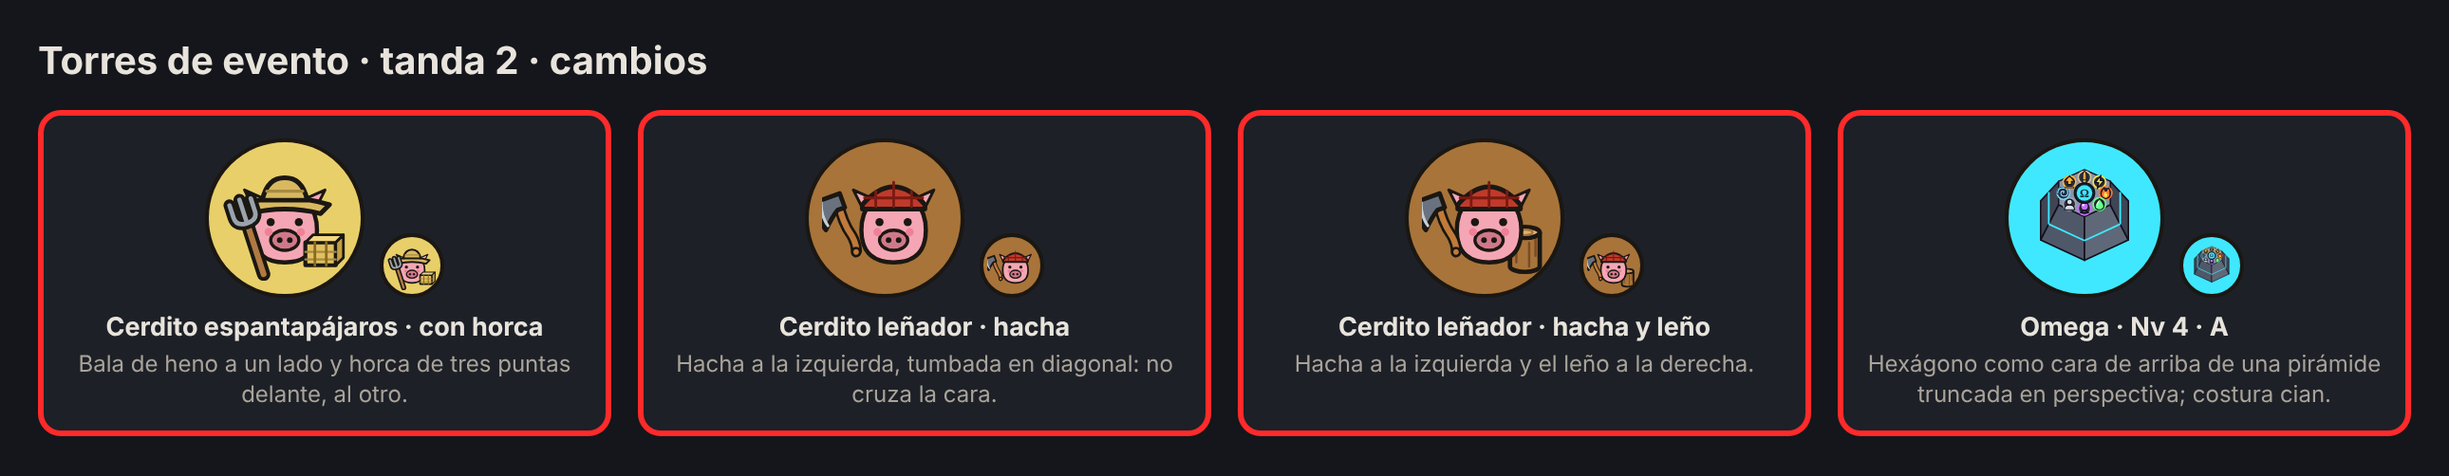
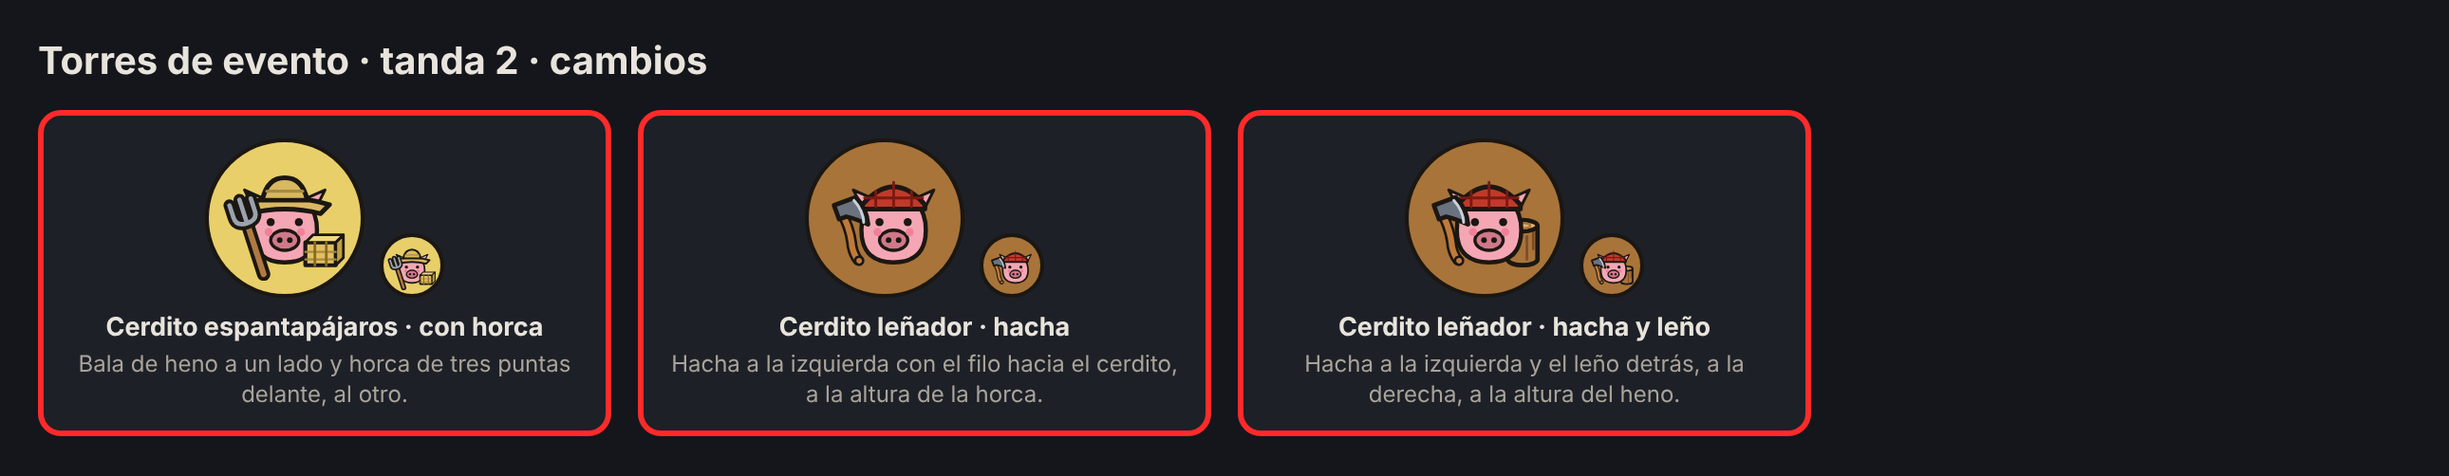
Maquetas: leñador con el filo hacia el cerdito y leño detrás
Claude-Session: https://claude.ai/code/session_01KTvhdvJBVdNEHfAwzaEr54

diff --git a/maquetas/torres_evento_tanda2_cambios4.html b/maquetas/torres_evento_tanda2_cambios4.html
@@ -1,4 +1,4 @@
 <!doctype html><meta charset="utf-8"><style>html,body{height:auto}body{margin:0;background:#14161b;color:#e8e4dc;font:14px system-ui,sans-serif;padding:20px;width:1250px}h1{font-size:20px;margin:0 0 14px}
 .grid{display:grid;grid-template-columns:repeat(4,1fr);gap:14px}.c{border:3px solid #ff2a2a;border-radius:12px;background:#1d2027;padding:12px;display:flex;flex-direction:column;align-items:center;text-align:center}
 .pair{display:flex;align-items:flex-end;gap:8px}.ci{border-radius:50%;display:grid;place-items:center;border:2px solid #1b1712;box-sizing:border-box;overflow:hidden}
-.c b{margin-top:8px;font-size:13.5px}.c small{color:#a9a399;font-size:12px;margin-top:3px;line-height:1.3}</style><h1>Torres de evento · tanda 2 · cambios</h1><div class="grid"><div class="c"><div class="pair"><div class="ci" style="width:84px;height:84px;background:#e8cf6a"><svg width="66" height="66" viewBox="-4 -4 56 56"><g transform="translate(2.3999999999999986 6) scale(0.9)"><g transform="translate(0 0)"><path d="M8 14l-4-8 9 4zM40 14l4-8-9 4z" fill="#f4a6b4" stroke="#1b1712" stroke-width="1.4" stroke-linejoin="round" stroke-linecap="round"/><path d="M8 26c0-12 7-18 16-18s16 6 16 18-7 16-16 16S8 38 8 26z" fill="#f4a6b4" stroke="#1b1712" stroke-width="2.1" stroke-linejoin="round" stroke-linecap="round"/><ellipse cx="24" cy="31" rx="7" ry="5" fill="#d0788a" stroke="#1b1712" stroke-width="1.6"/><circle cx="21.5" cy="31" r="1.4" fill="#1b1712" stroke="#1b1712" stroke-width="0"/><circle cx="26.5" cy="31" r="1.4" fill="#1b1712" stroke="#1b1712" stroke-width="0"/><circle cx="17" cy="22" r="2" fill="#1b1712" stroke="#1b1712" stroke-width="0"/><circle cx="31" cy="22" r="2" fill="#1b1712" stroke="#1b1712" stroke-width="0"/><circle cx="16" cy="27" r="2" fill="#f08098" stroke="#1b1712" stroke-width="0"/><circle cx="32" cy="27" r="2" fill="#f08098" stroke="#1b1712" stroke-width="0"/></g></g><path d="M4 18q20-6 40 0l-4 4q-16-4-32 0z" fill="#d8b860" stroke="#1b1712" stroke-width="2.1" stroke-linejoin="round" stroke-linecap="round"/><path d="M14 16q2-10 10-10t10 10z" fill="#d8b860" stroke="#1b1712" stroke-width="2.1" stroke-linejoin="round" stroke-linecap="round"/><path d="M16 12h16" fill="none" stroke="#a88a40" stroke-width="1.4" stroke-linecap="round"/><g transform="translate(40 40) scale(0.85)"><path d="M-8 -6h16v12h-16z" fill="#e0c060" stroke="#1b1712" stroke-width="2.1" stroke-linejoin="round" stroke-linecap="round"/><path d="M-8 -6l4-4h16l-4 4z" fill="#f0d880" stroke="#1b1712" stroke-width="1.4" stroke-linejoin="round" stroke-linecap="round"/><path d="M8 6v-12l4-4v12z" fill="#c0a040" stroke="#1b1712" stroke-width="1.4" stroke-linejoin="round" stroke-linecap="round"/><path d="M-8 -1h16M-8 3h16" fill="none" stroke="#a88a40" stroke-width="1.1" stroke-linecap="round"/><path d="M-3 -6v12M3 -6v12" fill="none" stroke="#8a6a20" stroke-width="1.4" stroke-linecap="round"/></g><g transform="translate(9 32) rotate(-18) scale(1)"><path d="M0 18V-6" fill="none" stroke="#1b1712" stroke-width="5.960000000000001" stroke-linecap="round" stroke-linejoin="round"/><path d="M0 18V-6" fill="none" stroke="#b07a42" stroke-width="2.6" stroke-linecap="round" stroke-linejoin="round"/><path d="M-5 -16v6q0 4 5 4t5-4v-6M0 -6v-11" fill="none" stroke="#1b1712" stroke-width="5.36" stroke-linecap="round" stroke-linejoin="round"/><path d="M-5 -16v6q0 4 5 4t5-4v-6M0 -6v-11" fill="none" stroke="#9aa3ad" stroke-width="2" stroke-linecap="round" stroke-linejoin="round"/></g></svg></div><div class="ci" style="width:34px;height:34px;background:#e8cf6a"><svg width="26" height="26" viewBox="-4 -4 56 56"><g transform="translate(2.3999999999999986 6) scale(0.9)"><g transform="translate(0 0)"><path d="M8 14l-4-8 9 4zM40 14l4-8-9 4z" fill="#f4a6b4" stroke="#1b1712" stroke-width="1.4" stroke-linejoin="round" stroke-linecap="round"/><path d="M8 26c0-12 7-18 16-18s16 6 16 18-7 16-16 16S8 38 8 26z" fill="#f4a6b4" stroke="#1b1712" stroke-width="2.1" stroke-linejoin="round" stroke-linecap="round"/><ellipse cx="24" cy="31" rx="7" ry="5" fill="#d0788a" stroke="#1b1712" stroke-width="1.6"/><circle cx="21.5" cy="31" r="1.4" fill="#1b1712" stroke="#1b1712" stroke-width="0"/><circle cx="26.5" cy="31" r="1.4" fill="#1b1712" stroke="#1b1712" stroke-width="0"/><circle cx="17" cy="22" r="2" fill="#1b1712" stroke="#1b1712" stroke-width="0"/><circle cx="31" cy="22" r="2" fill="#1b1712" stroke="#1b1712" stroke-width="0"/><circle cx="16" cy="27" r="2" fill="#f08098" stroke="#1b1712" stroke-width="0"/><circle cx="32" cy="27" r="2" fill="#f08098" stroke="#1b1712" stroke-width="0"/></g></g><path d="M4 18q20-6 40 0l-4 4q-16-4-32 0z" fill="#d8b860" stroke="#1b1712" stroke-width="2.1" stroke-linejoin="round" stroke-linecap="round"/><path d="M14 16q2-10 10-10t10 10z" fill="#d8b860" stroke="#1b1712" stroke-width="2.1" stroke-linejoin="round" stroke-linecap="round"/><path d="M16 12h16" fill="none" stroke="#a88a40" stroke-width="1.4" stroke-linecap="round"/><g transform="translate(40 40) scale(0.85)"><path d="M-8 -6h16v12h-16z" fill="#e0c060" stroke="#1b1712" stroke-width="2.1" stroke-linejoin="round" stroke-linecap="round"/><path d="M-8 -6l4-4h16l-4 4z" fill="#f0d880" stroke="#1b1712" stroke-width="1.4" stroke-linejoin="round" stroke-linecap="round"/><path d="M8 6v-12l4-4v12z" fill="#c0a040" stroke="#1b1712" stroke-width="1.4" stroke-linejoin="round" stroke-linecap="round"/><path d="M-8 -1h16M-8 3h16" fill="none" stroke="#a88a40" stroke-width="1.1" stroke-linecap="round"/><path d="M-3 -6v12M3 -6v12" fill="none" stroke="#8a6a20" stroke-width="1.4" stroke-linecap="round"/></g><g transform="translate(9 32) rotate(-18) scale(1)"><path d="M0 18V-6" fill="none" stroke="#1b1712" stroke-width="5.960000000000001" stroke-linecap="round" stroke-linejoin="round"/><path d="M0 18V-6" fill="none" stroke="#b07a42" stroke-width="2.6" stroke-linecap="round" stroke-linejoin="round"/><path d="M-5 -16v6q0 4 5 4t5-4v-6M0 -6v-11" fill="none" stroke="#1b1712" stroke-width="5.36" stroke-linecap="round" stroke-linejoin="round"/><path d="M-5 -16v6q0 4 5 4t5-4v-6M0 -6v-11" fill="none" stroke="#9aa3ad" stroke-width="2" stroke-linecap="round" stroke-linejoin="round"/></g></svg></div></div><b>Cerdito espantapájaros · con horca</b><small>Bala de heno a un lado y horca de tres puntas delante, al otro.</small></div><div class="c"><div class="pair"><div class="ci" style="width:84px;height:84px;background:#a8743a"><svg width="66" height="66" viewBox="-4 -4 56 56"><g transform="translate(4 0)"><g transform="translate(2.3999999999999986 6) scale(0.9)"><g transform="translate(0 0)"><path d="M8 14l-4-8 9 4zM40 14l4-8-9 4z" fill="#f4a6b4" stroke="#1b1712" stroke-width="1.4" stroke-linejoin="round" stroke-linecap="round"/><path d="M8 26c0-12 7-18 16-18s16 6 16 18-7 16-16 16S8 38 8 26z" fill="#f4a6b4" stroke="#1b1712" stroke-width="2.1" stroke-linejoin="round" stroke-linecap="round"/><ellipse cx="24" cy="31" rx="7" ry="5" fill="#d0788a" stroke="#1b1712" stroke-width="1.6"/><circle cx="21.5" cy="31" r="1.4" fill="#1b1712" stroke="#1b1712" stroke-width="0"/><circle cx="26.5" cy="31" r="1.4" fill="#1b1712" stroke="#1b1712" stroke-width="0"/><circle cx="17" cy="22" r="2" fill="#1b1712" stroke="#1b1712" stroke-width="0"/><circle cx="31" cy="22" r="2" fill="#1b1712" stroke="#1b1712" stroke-width="0"/><circle cx="16" cy="27" r="2" fill="#f08098" stroke="#1b1712" stroke-width="0"/><circle cx="32" cy="27" r="2" fill="#f08098" stroke="#1b1712" stroke-width="0"/></g></g><path d="M10 18q14-16 28 0v2H10z" fill="#c03a2a" stroke="#1b1712" stroke-width="2.1" stroke-linejoin="round" stroke-linecap="round"/><path d="M16 12v7M24 8v11M32 12v7M11 15h26" fill="none" stroke="#7a1a12" stroke-width="1.2" stroke-linecap="round"/></g><g transform="translate(7 27) rotate(-20) scale(-1 1)"><g transform="translate(0 0) rotate(0) scale(0.95)"><path d="M0 -12q1.6 10 -.6 18q-.6 4 .4 7" fill="none" stroke="#1b1712" stroke-width="5.2" stroke-linecap="round"/><path d="M0 -12q1.6 10 -.6 18q-.6 4 .4 7" fill="none" stroke="#c07a3a" stroke-width="2.8" stroke-linecap="round"/><circle cx="0.2" cy="13.6" r="1.9" fill="#c07a3a" stroke="#1b1712" stroke-width="1.2"/><path d="M-2 -15H9Q12 -8 10 -1Q5 -6 1.6 -8H-2z" fill="#6a7280" stroke="#1b1712" stroke-width="2.1" stroke-linejoin="round" stroke-linecap="round"/><path d="M7.6 -14Q10 -8 8.4 -2.6" fill="none" stroke="#c8d0d8" stroke-width="1.3" stroke-linecap="round"/></g></g></svg></div><div class="ci" style="width:34px;height:34px;background:#a8743a"><svg width="26" height="26" viewBox="-4 -4 56 56"><g transform="translate(4 0)"><g transform="translate(2.3999999999999986 6) scale(0.9)"><g transform="translate(0 0)"><path d="M8 14l-4-8 9 4zM40 14l4-8-9 4z" fill="#f4a6b4" stroke="#1b1712" stroke-width="1.4" stroke-linejoin="round" stroke-linecap="round"/><path d="M8 26c0-12 7-18 16-18s16 6 16 18-7 16-16 16S8 38 8 26z" fill="#f4a6b4" stroke="#1b1712" stroke-width="2.1" stroke-linejoin="round" stroke-linecap="round"/><ellipse cx="24" cy="31" rx="7" ry="5" fill="#d0788a" stroke="#1b1712" stroke-width="1.6"/><circle cx="21.5" cy="31" r="1.4" fill="#1b1712" stroke="#1b1712" stroke-width="0"/><circle cx="26.5" cy="31" r="1.4" fill="#1b1712" stroke="#1b1712" stroke-width="0"/><circle cx="17" cy="22" r="2" fill="#1b1712" stroke="#1b1712" stroke-width="0"/><circle cx="31" cy="22" r="2" fill="#1b1712" stroke="#1b1712" stroke-width="0"/><circle cx="16" cy="27" r="2" fill="#f08098" stroke="#1b1712" stroke-width="0"/><circle cx="32" cy="27" r="2" fill="#f08098" stroke="#1b1712" stroke-width="0"/></g></g><path d="M10 18q14-16 28 0v2H10z" fill="#c03a2a" stroke="#1b1712" stroke-width="2.1" stroke-linejoin="round" stroke-linecap="round"/><path d="M16 12v7M24 8v11M32 12v7M11 15h26" fill="none" stroke="#7a1a12" stroke-width="1.2" stroke-linecap="round"/></g><g transform="translate(7 27) rotate(-20) scale(-1 1)"><g transform="translate(0 0) rotate(0) scale(0.95)"><path d="M0 -12q1.6 10 -.6 18q-.6 4 .4 7" fill="none" stroke="#1b1712" stroke-width="5.2" stroke-linecap="round"/><path d="M0 -12q1.6 10 -.6 18q-.6 4 .4 7" fill="none" stroke="#c07a3a" stroke-width="2.8" stroke-linecap="round"/><circle cx="0.2" cy="13.6" r="1.9" fill="#c07a3a" stroke="#1b1712" stroke-width="1.2"/><path d="M-2 -15H9Q12 -8 10 -1Q5 -6 1.6 -8H-2z" fill="#6a7280" stroke="#1b1712" stroke-width="2.1" stroke-linejoin="round" stroke-linecap="round"/><path d="M7.6 -14Q10 -8 8.4 -2.6" fill="none" stroke="#c8d0d8" stroke-width="1.3" stroke-linecap="round"/></g></g></svg></div></div><b>Cerdito leñador · hacha</b><small>Hacha a la izquierda, tumbada en diagonal: no cruza la cara.</small></div><div class="c"><div class="pair"><div class="ci" style="width:84px;height:84px;background:#a8743a"><svg width="66" height="66" viewBox="-4 -4 56 56"><g transform="translate(42 38) scale(0.95)"><path d="M-7 -8V8a7 2.6 0 0014 0V-8" fill="#a8743a" stroke="#1b1712" stroke-width="2.1" stroke-linejoin="round"/><path d="M-4 -4v10M2 -3v11M5 -5v8" fill="none" stroke="#7a4a2a" stroke-width="1.1" stroke-linecap="round"/><ellipse cx="0" cy="-8" rx="7" ry="2.6" fill="#e0b070" stroke="#1b1712" stroke-width="2.1"/><ellipse cx="0" cy="-8" rx="3.6" ry="1.3" fill="none" stroke="#a8743a" stroke-width="1"/></g><g transform="translate(2 0)"><g transform="translate(2.3999999999999986 6) scale(0.9)"><g transform="translate(0 0)"><path d="M8 14l-4-8 9 4zM40 14l4-8-9 4z" fill="#f4a6b4" stroke="#1b1712" stroke-width="1.4" stroke-linejoin="round" stroke-linecap="round"/><path d="M8 26c0-12 7-18 16-18s16 6 16 18-7 16-16 16S8 38 8 26z" fill="#f4a6b4" stroke="#1b1712" stroke-width="2.1" stroke-linejoin="round" stroke-linecap="round"/><ellipse cx="24" cy="31" rx="7" ry="5" fill="#d0788a" stroke="#1b1712" stroke-width="1.6"/><circle cx="21.5" cy="31" r="1.4" fill="#1b1712" stroke="#1b1712" stroke-width="0"/><circle cx="26.5" cy="31" r="1.4" fill="#1b1712" stroke="#1b1712" stroke-width="0"/><circle cx="17" cy="22" r="2" fill="#1b1712" stroke="#1b1712" stroke-width="0"/><circle cx="31" cy="22" r="2" fill="#1b1712" stroke="#1b1712" stroke-width="0"/><circle cx="16" cy="27" r="2" fill="#f08098" stroke="#1b1712" stroke-width="0"/><circle cx="32" cy="27" r="2" fill="#f08098" stroke="#1b1712" stroke-width="0"/></g></g><path d="M10 18q14-16 28 0v2H10z" fill="#c03a2a" stroke="#1b1712" stroke-width="2.1" stroke-linejoin="round" stroke-linecap="round"/><path d="M16 12v7M24 8v11M32 12v7M11 15h26" fill="none" stroke="#7a1a12" stroke-width="1.2" stroke-linecap="round"/></g><g transform="translate(7 27) rotate(-20) scale(-1 1)"><g transform="translate(0 0) rotate(0) scale(0.95)"><path d="M0 -12q1.6 10 -.6 18q-.6 4 .4 7" fill="none" stroke="#1b1712" stroke-width="5.2" stroke-linecap="round"/><path d="M0 -12q1.6 10 -.6 18q-.6 4 .4 7" fill="none" stroke="#c07a3a" stroke-width="2.8" stroke-linecap="round"/><circle cx="0.2" cy="13.6" r="1.9" fill="#c07a3a" stroke="#1b1712" stroke-width="1.2"/><path d="M-2 -15H9Q12 -8 10 -1Q5 -6 1.6 -8H-2z" fill="#6a7280" stroke="#1b1712" stroke-width="2.1" stroke-linejoin="round" stroke-linecap="round"/><path d="M7.6 -14Q10 -8 8.4 -2.6" fill="none" stroke="#c8d0d8" stroke-width="1.3" stroke-linecap="round"/></g></g></svg></div><div class="ci" style="width:34px;height:34px;background:#a8743a"><svg width="26" height="26" viewBox="-4 -4 56 56"><g transform="translate(42 38) scale(0.95)"><path d="M-7 -8V8a7 2.6 0 0014 0V-8" fill="#a8743a" stroke="#1b1712" stroke-width="2.1" stroke-linejoin="round"/><path d="M-4 -4v10M2 -3v11M5 -5v8" fill="none" stroke="#7a4a2a" stroke-width="1.1" stroke-linecap="round"/><ellipse cx="0" cy="-8" rx="7" ry="2.6" fill="#e0b070" stroke="#1b1712" stroke-width="2.1"/><ellipse cx="0" cy="-8" rx="3.6" ry="1.3" fill="none" stroke="#a8743a" stroke-width="1"/></g><g transform="translate(2 0)"><g transform="translate(2.3999999999999986 6) scale(0.9)"><g transform="translate(0 0)"><path d="M8 14l-4-8 9 4zM40 14l4-8-9 4z" fill="#f4a6b4" stroke="#1b1712" stroke-width="1.4" stroke-linejoin="round" stroke-linecap="round"/><path d="M8 26c0-12 7-18 16-18s16 6 16 18-7 16-16 16S8 38 8 26z" fill="#f4a6b4" stroke="#1b1712" stroke-width="2.1" stroke-linejoin="round" stroke-linecap="round"/><ellipse cx="24" cy="31" rx="7" ry="5" fill="#d0788a" stroke="#1b1712" stroke-width="1.6"/><circle cx="21.5" cy="31" r="1.4" fill="#1b1712" stroke="#1b1712" stroke-width="0"/><circle cx="26.5" cy="31" r="1.4" fill="#1b1712" stroke="#1b1712" stroke-width="0"/><circle cx="17" cy="22" r="2" fill="#1b1712" stroke="#1b1712" stroke-width="0"/><circle cx="31" cy="22" r="2" fill="#1b1712" stroke="#1b1712" stroke-width="0"/><circle cx="16" cy="27" r="2" fill="#f08098" stroke="#1b1712" stroke-width="0"/><circle cx="32" cy="27" r="2" fill="#f08098" stroke="#1b1712" stroke-width="0"/></g></g><path d="M10 18q14-16 28 0v2H10z" fill="#c03a2a" stroke="#1b1712" stroke-width="2.1" stroke-linejoin="round" stroke-linecap="round"/><path d="M16 12v7M24 8v11M32 12v7M11 15h26" fill="none" stroke="#7a1a12" stroke-width="1.2" stroke-linecap="round"/></g><g transform="translate(7 27) rotate(-20) scale(-1 1)"><g transform="translate(0 0) rotate(0) scale(0.95)"><path d="M0 -12q1.6 10 -.6 18q-.6 4 .4 7" fill="none" stroke="#1b1712" stroke-width="5.2" stroke-linecap="round"/><path d="M0 -12q1.6 10 -.6 18q-.6 4 .4 7" fill="none" stroke="#c07a3a" stroke-width="2.8" stroke-linecap="round"/><circle cx="0.2" cy="13.6" r="1.9" fill="#c07a3a" stroke="#1b1712" stroke-width="1.2"/><path d="M-2 -15H9Q12 -8 10 -1Q5 -6 1.6 -8H-2z" fill="#6a7280" stroke="#1b1712" stroke-width="2.1" stroke-linejoin="round" stroke-linecap="round"/><path d="M7.6 -14Q10 -8 8.4 -2.6" fill="none" stroke="#c8d0d8" stroke-width="1.3" stroke-linecap="round"/></g></g></svg></div></div><b>Cerdito leñador · hacha y leño</b><small>Hacha a la izquierda y el leño a la derecha.</small></div><div class="c"><div class="pair"><div class="ci" style="width:84px;height:84px;background:#3fe8ff"><svg width="66" height="66" viewBox="-4 -4 56 56"><svg x="-4" y="-4" width="56" height="56" viewBox="-30 0 160 160" xmlns="http://www.w3.org/2000/svg"><polygon points="17.1,33 -6,58 -6,108 17.1,63" fill="#3e4554" stroke="#14101e" stroke-width="2" stroke-linejoin="round"/><polygon points="17.1,63 -6,108 50,134 50,78" fill="#4f5868" stroke="#14101e" stroke-width="2" stroke-linejoin="round"/><polygon points="50,78 50,134 106,108 82.9,63" fill="#5f6878" stroke="#14101e" stroke-width="2" stroke-linejoin="round"/><polygon points="82.9,33 82.9,63 106,108 106,58" fill="#3e4554" stroke="#14101e" stroke-width="2" stroke-linejoin="round"/><line x1="4.395" y1="46.75" x2="4.395" y2="87.75" stroke="#3fe8ff" stroke-width="2.2"/><line x1="4.395" y1="87.75" x2="50" y2="108.80000000000001" stroke="#3fe8ff" stroke-width="2.2"/><line x1="50" y1="108.80000000000001" x2="95.605" y2="87.75" stroke="#3fe8ff" stroke-width="2.2"/><line x1="95.605" y1="87.75" x2="95.605" y2="46.75" stroke="#3fe8ff" stroke-width="2.2"/><polygon points="82.9,63.0 50.0,78.0 17.1,63.0 17.1,33.0 50.0,18.0 82.9,33.0" fill="#8a94a6" stroke="#14101e" stroke-width="1.6" stroke-linejoin="round"/><circle cx="50.0" cy="28.0" r="8" fill="#2a2f3a" stroke="#d8c49a" stroke-width="2"/><g transform="translate(50.0 28.0) scale(.8)"><path d="M-3 9 V-2 Q-3 -9 0 -10 Q3 -9 3 -2 V9Z" fill="#d8a84a" stroke="#14101e" stroke-width="1.6" stroke-linejoin="round" stroke-linecap="round"/><path d="M-3 4 H3" stroke="#14101e" stroke-width="1.2"/></g><circle cx="69.1" cy="33.9" r="8" fill="#2a2f3a" stroke="#ffe14d" stroke-width="2"/><g transform="translate(69.1 33.9) scale(.8)"><g transform="scale(1.18)"><path d="M2 -9 L-6 1 H-1 L-3 9 L6 -2 H1Z" fill="#ffe14d" stroke="#14101e" stroke-width="1.6" stroke-linejoin="round" stroke-linecap="round"/></g></g><circle cx="77.0" cy="48.0" r="8" fill="#2a2f3a" stroke="#ff7a2e" stroke-width="2"/><g transform="translate(77.0 48.0) scale(.8)"><path d="M0 9 Q-8 7 -7 0 Q-6 -5 -2 -9 Q-2 -4 1 -3 Q2 -7 5 -8 Q8 -2 7 3 Q6 8 0 9Z" fill="#ff7a2e" stroke="#14101e" stroke-width="1.6" stroke-linejoin="round" stroke-linecap="round"/><path d="M0 7 Q-3 6 -3 2 Q-2 -1 0 -2 Q1 1 3 2 Q3 6 0 7Z" fill="#ffe14d"/></g><circle cx="69.1" cy="62.1" r="8" fill="#2a2f3a" stroke="#6aff8a" stroke-width="2"/><g transform="translate(69.1 62.1) scale(.8)"><path d="M0 -9 Q7 -1 7 3 Q7 9 0 9 Q-7 9 -7 3 Q-7 -1 0 -9Z" fill="#6aff8a" stroke="#14101e" stroke-width="1.6" stroke-linejoin="round" stroke-linecap="round"/><path d="M-3.5 2 Q-3.5 -1 -1.5 -3.5" stroke="#fff" stroke-width="1.6" fill="none" stroke-linecap="round" opacity=".9"/><circle cx="-3.4" cy="4.6" r=".9" fill="#fff" opacity=".9"/></g><circle cx="50.0" cy="68.0" r="8" fill="#2a2f3a" stroke="#c070ff" stroke-width="2"/><g transform="translate(50.0 68.0) scale(.8)"><g transform="scale(1.25)"><path d="M-5 5 L0 1 L5 5Z" fill="#5a6474" stroke="#14101e" stroke-width="1.6" stroke-linejoin="round" stroke-linecap="round"/><circle cx="0" cy="-3" r="5" fill="#c070ff" stroke="#14101e" stroke-width="1.6" stroke-linejoin="round" stroke-linecap="round"/><circle cx="-1.5" cy="-4.5" r="1.4" fill="#fff"/></g></g><circle cx="30.9" cy="62.1" r="8" fill="#2a2f3a" stroke="#9aa4b4" stroke-width="2"/><g transform="translate(30.9 62.1) scale(.8)"><circle cx="0" cy="-3.2" r="4.4" fill="#d8dee8" stroke="#14101e" stroke-width="1.6" stroke-linejoin="round" stroke-linecap="round"/><path d="M-8 9 Q-8 1.5 0 1.5 Q8 1.5 8 9Z" fill="#d8dee8" stroke="#14101e" stroke-width="1.6" stroke-linejoin="round" stroke-linecap="round"/></g><circle cx="23.0" cy="48.0" r="8" fill="#2a2f3a" stroke="#7ad8ff" stroke-width="2"/><g transform="translate(23.0 48.0) scale(.8)"><path d="M0 0 Q2 -2 0 -3.5 Q-4 -3.5 -4 0 Q-4 5 1 5 Q7 5 7 -1 Q7 -8 0 -8.5 Q-9 -8.5 -9 0" stroke="#14101e" stroke-width="3.6" fill="none" stroke-linecap="round"/><path d="M0 0 Q2 -2 0 -3.5 Q-4 -3.5 -4 0 Q-4 5 1 5 Q7 5 7 -1 Q7 -8 0 -8.5 Q-9 -8.5 -9 0" stroke="#7ad8ff" stroke-width="2" fill="none" stroke-linecap="round"/></g><circle cx="30.9" cy="33.9" r="8" fill="#2a2f3a" stroke="#ffb43a" stroke-width="2"/><g transform="translate(30.9 33.9) scale(.8)"><path d="M0 -10 L8 -1 H3 V4 H-3 V-1 H-8Z" fill="#ffb43a" stroke="#14101e" stroke-width="1.6" stroke-linejoin="round" stroke-linecap="round"/><path d="M-6 9 H6" stroke="#14101e" stroke-width="3.2" stroke-linecap="round"/><path d="M-6 9 H6" stroke="#ffb43a" stroke-width="1.6" stroke-linecap="round"/></g><circle cx="50" cy="48" r="13" fill="#13222e" stroke="#14101e" stroke-width="1.6" stroke-linejoin="round"/><circle cx="50" cy="48" r="10" fill="#3fe8ff"/><text x="50" y="53.5" text-anchor="middle" font-family="Georgia,serif" font-weight="bold" font-size="15" fill="#13222e">Ω</text></svg></svg></div><div class="ci" style="width:34px;height:34px;background:#3fe8ff"><svg width="26" height="26" viewBox="-4 -4 56 56"><svg x="-4" y="-4" width="56" height="56" viewBox="-30 0 160 160" xmlns="http://www.w3.org/2000/svg"><polygon points="17.1,33 -6,58 -6,108 17.1,63" fill="#3e4554" stroke="#14101e" stroke-width="2" stroke-linejoin="round"/><polygon points="17.1,63 -6,108 50,134 50,78" fill="#4f5868" stroke="#14101e" stroke-width="2" stroke-linejoin="round"/><polygon points="50,78 50,134 106,108 82.9,63" fill="#5f6878" stroke="#14101e" stroke-width="2" stroke-linejoin="round"/><polygon points="82.9,33 82.9,63 106,108 106,58" fill="#3e4554" stroke="#14101e" stroke-width="2" stroke-linejoin="round"/><line x1="4.395" y1="46.75" x2="4.395" y2="87.75" stroke="#3fe8ff" stroke-width="2.2"/><line x1="4.395" y1="87.75" x2="50" y2="108.80000000000001" stroke="#3fe8ff" stroke-width="2.2"/><line x1="50" y1="108.80000000000001" x2="95.605" y2="87.75" stroke="#3fe8ff" stroke-width="2.2"/><line x1="95.605" y1="87.75" x2="95.605" y2="46.75" stroke="#3fe8ff" stroke-width="2.2"/><polygon points="82.9,63.0 50.0,78.0 17.1,63.0 17.1,33.0 50.0,18.0 82.9,33.0" fill="#8a94a6" stroke="#14101e" stroke-width="1.6" stroke-linejoin="round"/><circle cx="50.0" cy="28.0" r="8" fill="#2a2f3a" stroke="#d8c49a" stroke-width="2"/><g transform="translate(50.0 28.0) scale(.8)"><path d="M-3 9 V-2 Q-3 -9 0 -10 Q3 -9 3 -2 V9Z" fill="#d8a84a" stroke="#14101e" stroke-width="1.6" stroke-linejoin="round" stroke-linecap="round"/><path d="M-3 4 H3" stroke="#14101e" stroke-width="1.2"/></g><circle cx="69.1" cy="33.9" r="8" fill="#2a2f3a" stroke="#ffe14d" stroke-width="2"/><g transform="translate(69.1 33.9) scale(.8)"><g transform="scale(1.18)"><path d="M2 -9 L-6 1 H-1 L-3 9 L6 -2 H1Z" fill="#ffe14d" stroke="#14101e" stroke-width="1.6" stroke-linejoin="round" stroke-linecap="round"/></g></g><circle cx="77.0" cy="48.0" r="8" fill="#2a2f3a" stroke="#ff7a2e" stroke-width="2"/><g transform="translate(77.0 48.0) scale(.8)"><path d="M0 9 Q-8 7 -7 0 Q-6 -5 -2 -9 Q-2 -4 1 -3 Q2 -7 5 -8 Q8 -2 7 3 Q6 8 0 9Z" fill="#ff7a2e" stroke="#14101e" stroke-width="1.6" stroke-linejoin="round" stroke-linecap="round"/><path d="M0 7 Q-3 6 -3 2 Q-2 -1 0 -2 Q1 1 3 2 Q3 6 0 7Z" fill="#ffe14d"/></g><circle cx="69.1" cy="62.1" r="8" fill="#2a2f3a" stroke="#6aff8a" stroke-width="2"/><g transform="translate(69.1 62.1) scale(.8)"><path d="M0 -9 Q7 -1 7 3 Q7 9 0 9 Q-7 9 -7 3 Q-7 -1 0 -9Z" fill="#6aff8a" stroke="#14101e" stroke-width="1.6" stroke-linejoin="round" stroke-linecap="round"/><path d="M-3.5 2 Q-3.5 -1 -1.5 -3.5" stroke="#fff" stroke-width="1.6" fill="none" stroke-linecap="round" opacity=".9"/><circle cx="-3.4" cy="4.6" r=".9" fill="#fff" opacity=".9"/></g><circle cx="50.0" cy="68.0" r="8" fill="#2a2f3a" stroke="#c070ff" stroke-width="2"/><g transform="translate(50.0 68.0) scale(.8)"><g transform="scale(1.25)"><path d="M-5 5 L0 1 L5 5Z" fill="#5a6474" stroke="#14101e" stroke-width="1.6" stroke-linejoin="round" stroke-linecap="round"/><circle cx="0" cy="-3" r="5" fill="#c070ff" stroke="#14101e" stroke-width="1.6" stroke-linejoin="round" stroke-linecap="round"/><circle cx="-1.5" cy="-4.5" r="1.4" fill="#fff"/></g></g><circle cx="30.9" cy="62.1" r="8" fill="#2a2f3a" stroke="#9aa4b4" stroke-width="2"/><g transform="translate(30.9 62.1) scale(.8)"><circle cx="0" cy="-3.2" r="4.4" fill="#d8dee8" stroke="#14101e" stroke-width="1.6" stroke-linejoin="round" stroke-linecap="round"/><path d="M-8 9 Q-8 1.5 0 1.5 Q8 1.5 8 9Z" fill="#d8dee8" stroke="#14101e" stroke-width="1.6" stroke-linejoin="round" stroke-linecap="round"/></g><circle cx="23.0" cy="48.0" r="8" fill="#2a2f3a" stroke="#7ad8ff" stroke-width="2"/><g transform="translate(23.0 48.0) scale(.8)"><path d="M0 0 Q2 -2 0 -3.5 Q-4 -3.5 -4 0 Q-4 5 1 5 Q7 5 7 -1 Q7 -8 0 -8.5 Q-9 -8.5 -9 0" stroke="#14101e" stroke-width="3.6" fill="none" stroke-linecap="round"/><path d="M0 0 Q2 -2 0 -3.5 Q-4 -3.5 -4 0 Q-4 5 1 5 Q7 5 7 -1 Q7 -8 0 -8.5 Q-9 -8.5 -9 0" stroke="#7ad8ff" stroke-width="2" fill="none" stroke-linecap="round"/></g><circle cx="30.9" cy="33.9" r="8" fill="#2a2f3a" stroke="#ffb43a" stroke-width="2"/><g transform="translate(30.9 33.9) scale(.8)"><path d="M0 -10 L8 -1 H3 V4 H-3 V-1 H-8Z" fill="#ffb43a" stroke="#14101e" stroke-width="1.6" stroke-linejoin="round" stroke-linecap="round"/><path d="M-6 9 H6" stroke="#14101e" stroke-width="3.2" stroke-linecap="round"/><path d="M-6 9 H6" stroke="#ffb43a" stroke-width="1.6" stroke-linecap="round"/></g><circle cx="50" cy="48" r="13" fill="#13222e" stroke="#14101e" stroke-width="1.6" stroke-linejoin="round"/><circle cx="50" cy="48" r="10" fill="#3fe8ff"/><text x="50" y="53.5" text-anchor="middle" font-family="Georgia,serif" font-weight="bold" font-size="15" fill="#13222e">Ω</text></svg></svg></div></div><b>Omega · Nv 4 · A</b><small>Hexágono como cara de arriba de una pirámide truncada en perspectiva; costura cian.</small></div></div>
+.c b{margin-top:8px;font-size:13.5px}.c small{color:#a9a399;font-size:12px;margin-top:3px;line-height:1.3}</style><h1>Torres de evento · tanda 2 · cambios</h1><div class="grid"><div class="c"><div class="pair"><div class="ci" style="width:84px;height:84px;background:#e8cf6a"><svg width="66" height="66" viewBox="-4 -4 56 56"><g transform="translate(2.3999999999999986 6) scale(0.9)"><g transform="translate(0 0)"><path d="M8 14l-4-8 9 4zM40 14l4-8-9 4z" fill="#f4a6b4" stroke="#1b1712" stroke-width="1.4" stroke-linejoin="round" stroke-linecap="round"/><path d="M8 26c0-12 7-18 16-18s16 6 16 18-7 16-16 16S8 38 8 26z" fill="#f4a6b4" stroke="#1b1712" stroke-width="2.1" stroke-linejoin="round" stroke-linecap="round"/><ellipse cx="24" cy="31" rx="7" ry="5" fill="#d0788a" stroke="#1b1712" stroke-width="1.6"/><circle cx="21.5" cy="31" r="1.4" fill="#1b1712" stroke="#1b1712" stroke-width="0"/><circle cx="26.5" cy="31" r="1.4" fill="#1b1712" stroke="#1b1712" stroke-width="0"/><circle cx="17" cy="22" r="2" fill="#1b1712" stroke="#1b1712" stroke-width="0"/><circle cx="31" cy="22" r="2" fill="#1b1712" stroke="#1b1712" stroke-width="0"/><circle cx="16" cy="27" r="2" fill="#f08098" stroke="#1b1712" stroke-width="0"/><circle cx="32" cy="27" r="2" fill="#f08098" stroke="#1b1712" stroke-width="0"/></g></g><path d="M4 18q20-6 40 0l-4 4q-16-4-32 0z" fill="#d8b860" stroke="#1b1712" stroke-width="2.1" stroke-linejoin="round" stroke-linecap="round"/><path d="M14 16q2-10 10-10t10 10z" fill="#d8b860" stroke="#1b1712" stroke-width="2.1" stroke-linejoin="round" stroke-linecap="round"/><path d="M16 12h16" fill="none" stroke="#a88a40" stroke-width="1.4" stroke-linecap="round"/><g transform="translate(40 40) scale(0.85)"><path d="M-8 -6h16v12h-16z" fill="#e0c060" stroke="#1b1712" stroke-width="2.1" stroke-linejoin="round" stroke-linecap="round"/><path d="M-8 -6l4-4h16l-4 4z" fill="#f0d880" stroke="#1b1712" stroke-width="1.4" stroke-linejoin="round" stroke-linecap="round"/><path d="M8 6v-12l4-4v12z" fill="#c0a040" stroke="#1b1712" stroke-width="1.4" stroke-linejoin="round" stroke-linecap="round"/><path d="M-8 -1h16M-8 3h16" fill="none" stroke="#a88a40" stroke-width="1.1" stroke-linecap="round"/><path d="M-3 -6v12M3 -6v12" fill="none" stroke="#8a6a20" stroke-width="1.4" stroke-linecap="round"/></g><g transform="translate(9 32) rotate(-18) scale(1)"><path d="M0 18V-6" fill="none" stroke="#1b1712" stroke-width="5.960000000000001" stroke-linecap="round" stroke-linejoin="round"/><path d="M0 18V-6" fill="none" stroke="#b07a42" stroke-width="2.6" stroke-linecap="round" stroke-linejoin="round"/><path d="M-5 -16v6q0 4 5 4t5-4v-6M0 -6v-11" fill="none" stroke="#1b1712" stroke-width="5.36" stroke-linecap="round" stroke-linejoin="round"/><path d="M-5 -16v6q0 4 5 4t5-4v-6M0 -6v-11" fill="none" stroke="#9aa3ad" stroke-width="2" stroke-linecap="round" stroke-linejoin="round"/></g></svg></div><div class="ci" style="width:34px;height:34px;background:#e8cf6a"><svg width="26" height="26" viewBox="-4 -4 56 56"><g transform="translate(2.3999999999999986 6) scale(0.9)"><g transform="translate(0 0)"><path d="M8 14l-4-8 9 4zM40 14l4-8-9 4z" fill="#f4a6b4" stroke="#1b1712" stroke-width="1.4" stroke-linejoin="round" stroke-linecap="round"/><path d="M8 26c0-12 7-18 16-18s16 6 16 18-7 16-16 16S8 38 8 26z" fill="#f4a6b4" stroke="#1b1712" stroke-width="2.1" stroke-linejoin="round" stroke-linecap="round"/><ellipse cx="24" cy="31" rx="7" ry="5" fill="#d0788a" stroke="#1b1712" stroke-width="1.6"/><circle cx="21.5" cy="31" r="1.4" fill="#1b1712" stroke="#1b1712" stroke-width="0"/><circle cx="26.5" cy="31" r="1.4" fill="#1b1712" stroke="#1b1712" stroke-width="0"/><circle cx="17" cy="22" r="2" fill="#1b1712" stroke="#1b1712" stroke-width="0"/><circle cx="31" cy="22" r="2" fill="#1b1712" stroke="#1b1712" stroke-width="0"/><circle cx="16" cy="27" r="2" fill="#f08098" stroke="#1b1712" stroke-width="0"/><circle cx="32" cy="27" r="2" fill="#f08098" stroke="#1b1712" stroke-width="0"/></g></g><path d="M4 18q20-6 40 0l-4 4q-16-4-32 0z" fill="#d8b860" stroke="#1b1712" stroke-width="2.1" stroke-linejoin="round" stroke-linecap="round"/><path d="M14 16q2-10 10-10t10 10z" fill="#d8b860" stroke="#1b1712" stroke-width="2.1" stroke-linejoin="round" stroke-linecap="round"/><path d="M16 12h16" fill="none" stroke="#a88a40" stroke-width="1.4" stroke-linecap="round"/><g transform="translate(40 40) scale(0.85)"><path d="M-8 -6h16v12h-16z" fill="#e0c060" stroke="#1b1712" stroke-width="2.1" stroke-linejoin="round" stroke-linecap="round"/><path d="M-8 -6l4-4h16l-4 4z" fill="#f0d880" stroke="#1b1712" stroke-width="1.4" stroke-linejoin="round" stroke-linecap="round"/><path d="M8 6v-12l4-4v12z" fill="#c0a040" stroke="#1b1712" stroke-width="1.4" stroke-linejoin="round" stroke-linecap="round"/><path d="M-8 -1h16M-8 3h16" fill="none" stroke="#a88a40" stroke-width="1.1" stroke-linecap="round"/><path d="M-3 -6v12M3 -6v12" fill="none" stroke="#8a6a20" stroke-width="1.4" stroke-linecap="round"/></g><g transform="translate(9 32) rotate(-18) scale(1)"><path d="M0 18V-6" fill="none" stroke="#1b1712" stroke-width="5.960000000000001" stroke-linecap="round" stroke-linejoin="round"/><path d="M0 18V-6" fill="none" stroke="#b07a42" stroke-width="2.6" stroke-linecap="round" stroke-linejoin="round"/><path d="M-5 -16v6q0 4 5 4t5-4v-6M0 -6v-11" fill="none" stroke="#1b1712" stroke-width="5.36" stroke-linecap="round" stroke-linejoin="round"/><path d="M-5 -16v6q0 4 5 4t5-4v-6M0 -6v-11" fill="none" stroke="#9aa3ad" stroke-width="2" stroke-linecap="round" stroke-linejoin="round"/></g></svg></div></div><b>Cerdito espantapájaros · con horca</b><small>Bala de heno a un lado y horca de tres puntas delante, al otro.</small></div><div class="c"><div class="pair"><div class="ci" style="width:84px;height:84px;background:#a8743a"><svg width="66" height="66" viewBox="-4 -4 56 56"><g transform="translate(4 0)"><g transform="translate(2.3999999999999986 6) scale(0.9)"><g transform="translate(0 0)"><path d="M8 14l-4-8 9 4zM40 14l4-8-9 4z" fill="#f4a6b4" stroke="#1b1712" stroke-width="1.4" stroke-linejoin="round" stroke-linecap="round"/><path d="M8 26c0-12 7-18 16-18s16 6 16 18-7 16-16 16S8 38 8 26z" fill="#f4a6b4" stroke="#1b1712" stroke-width="2.1" stroke-linejoin="round" stroke-linecap="round"/><ellipse cx="24" cy="31" rx="7" ry="5" fill="#d0788a" stroke="#1b1712" stroke-width="1.6"/><circle cx="21.5" cy="31" r="1.4" fill="#1b1712" stroke="#1b1712" stroke-width="0"/><circle cx="26.5" cy="31" r="1.4" fill="#1b1712" stroke="#1b1712" stroke-width="0"/><circle cx="17" cy="22" r="2" fill="#1b1712" stroke="#1b1712" stroke-width="0"/><circle cx="31" cy="22" r="2" fill="#1b1712" stroke="#1b1712" stroke-width="0"/><circle cx="16" cy="27" r="2" fill="#f08098" stroke="#1b1712" stroke-width="0"/><circle cx="32" cy="27" r="2" fill="#f08098" stroke="#1b1712" stroke-width="0"/></g></g><path d="M10 18q14-16 28 0v2H10z" fill="#c03a2a" stroke="#1b1712" stroke-width="2.1" stroke-linejoin="round" stroke-linecap="round"/><path d="M16 12v7M24 8v11M32 12v7M11 15h26" fill="none" stroke="#7a1a12" stroke-width="1.2" stroke-linecap="round"/></g><g transform="translate(8 31) rotate(-20)"><g transform="translate(0 0) rotate(0) scale(0.95)"><path d="M0 -12q1.6 10 -.6 18q-.6 4 .4 7" fill="none" stroke="#1b1712" stroke-width="5.2" stroke-linecap="round"/><path d="M0 -12q1.6 10 -.6 18q-.6 4 .4 7" fill="none" stroke="#c07a3a" stroke-width="2.8" stroke-linecap="round"/><circle cx="0.2" cy="13.6" r="1.9" fill="#c07a3a" stroke="#1b1712" stroke-width="1.2"/><path d="M-2 -15H9Q12 -8 10 -1Q5 -6 1.6 -8H-2z" fill="#6a7280" stroke="#1b1712" stroke-width="2.1" stroke-linejoin="round" stroke-linecap="round"/><path d="M7.6 -14Q10 -8 8.4 -2.6" fill="none" stroke="#c8d0d8" stroke-width="1.3" stroke-linecap="round"/></g></g></svg></div><div class="ci" style="width:34px;height:34px;background:#a8743a"><svg width="26" height="26" viewBox="-4 -4 56 56"><g transform="translate(4 0)"><g transform="translate(2.3999999999999986 6) scale(0.9)"><g transform="translate(0 0)"><path d="M8 14l-4-8 9 4zM40 14l4-8-9 4z" fill="#f4a6b4" stroke="#1b1712" stroke-width="1.4" stroke-linejoin="round" stroke-linecap="round"/><path d="M8 26c0-12 7-18 16-18s16 6 16 18-7 16-16 16S8 38 8 26z" fill="#f4a6b4" stroke="#1b1712" stroke-width="2.1" stroke-linejoin="round" stroke-linecap="round"/><ellipse cx="24" cy="31" rx="7" ry="5" fill="#d0788a" stroke="#1b1712" stroke-width="1.6"/><circle cx="21.5" cy="31" r="1.4" fill="#1b1712" stroke="#1b1712" stroke-width="0"/><circle cx="26.5" cy="31" r="1.4" fill="#1b1712" stroke="#1b1712" stroke-width="0"/><circle cx="17" cy="22" r="2" fill="#1b1712" stroke="#1b1712" stroke-width="0"/><circle cx="31" cy="22" r="2" fill="#1b1712" stroke="#1b1712" stroke-width="0"/><circle cx="16" cy="27" r="2" fill="#f08098" stroke="#1b1712" stroke-width="0"/><circle cx="32" cy="27" r="2" fill="#f08098" stroke="#1b1712" stroke-width="0"/></g></g><path d="M10 18q14-16 28 0v2H10z" fill="#c03a2a" stroke="#1b1712" stroke-width="2.1" stroke-linejoin="round" stroke-linecap="round"/><path d="M16 12v7M24 8v11M32 12v7M11 15h26" fill="none" stroke="#7a1a12" stroke-width="1.2" stroke-linecap="round"/></g><g transform="translate(8 31) rotate(-20)"><g transform="translate(0 0) rotate(0) scale(0.95)"><path d="M0 -12q1.6 10 -.6 18q-.6 4 .4 7" fill="none" stroke="#1b1712" stroke-width="5.2" stroke-linecap="round"/><path d="M0 -12q1.6 10 -.6 18q-.6 4 .4 7" fill="none" stroke="#c07a3a" stroke-width="2.8" stroke-linecap="round"/><circle cx="0.2" cy="13.6" r="1.9" fill="#c07a3a" stroke="#1b1712" stroke-width="1.2"/><path d="M-2 -15H9Q12 -8 10 -1Q5 -6 1.6 -8H-2z" fill="#6a7280" stroke="#1b1712" stroke-width="2.1" stroke-linejoin="round" stroke-linecap="round"/><path d="M7.6 -14Q10 -8 8.4 -2.6" fill="none" stroke="#c8d0d8" stroke-width="1.3" stroke-linecap="round"/></g></g></svg></div></div><b>Cerdito leñador · hacha</b><small>Hacha a la izquierda con el filo hacia el cerdito, a la altura de la horca.</small></div><div class="c"><div class="pair"><div class="ci" style="width:84px;height:84px;background:#a8743a"><svg width="66" height="66" viewBox="-4 -4 56 56"><g transform="translate(41 35) scale(0.95)"><path d="M-7 -8V8a7 2.6 0 0014 0V-8" fill="#a8743a" stroke="#1b1712" stroke-width="2.1" stroke-linejoin="round"/><path d="M-4 -4v10M2 -3v11M5 -5v8" fill="none" stroke="#7a4a2a" stroke-width="1.1" stroke-linecap="round"/><ellipse cx="0" cy="-8" rx="7" ry="2.6" fill="#e0b070" stroke="#1b1712" stroke-width="2.1"/><ellipse cx="0" cy="-8" rx="3.6" ry="1.3" fill="none" stroke="#a8743a" stroke-width="1"/></g><g transform="translate(2 0)"><g transform="translate(2.3999999999999986 6) scale(0.9)"><g transform="translate(0 0)"><path d="M8 14l-4-8 9 4zM40 14l4-8-9 4z" fill="#f4a6b4" stroke="#1b1712" stroke-width="1.4" stroke-linejoin="round" stroke-linecap="round"/><path d="M8 26c0-12 7-18 16-18s16 6 16 18-7 16-16 16S8 38 8 26z" fill="#f4a6b4" stroke="#1b1712" stroke-width="2.1" stroke-linejoin="round" stroke-linecap="round"/><ellipse cx="24" cy="31" rx="7" ry="5" fill="#d0788a" stroke="#1b1712" stroke-width="1.6"/><circle cx="21.5" cy="31" r="1.4" fill="#1b1712" stroke="#1b1712" stroke-width="0"/><circle cx="26.5" cy="31" r="1.4" fill="#1b1712" stroke="#1b1712" stroke-width="0"/><circle cx="17" cy="22" r="2" fill="#1b1712" stroke="#1b1712" stroke-width="0"/><circle cx="31" cy="22" r="2" fill="#1b1712" stroke="#1b1712" stroke-width="0"/><circle cx="16" cy="27" r="2" fill="#f08098" stroke="#1b1712" stroke-width="0"/><circle cx="32" cy="27" r="2" fill="#f08098" stroke="#1b1712" stroke-width="0"/></g></g><path d="M10 18q14-16 28 0v2H10z" fill="#c03a2a" stroke="#1b1712" stroke-width="2.1" stroke-linejoin="round" stroke-linecap="round"/><path d="M16 12v7M24 8v11M32 12v7M11 15h26" fill="none" stroke="#7a1a12" stroke-width="1.2" stroke-linecap="round"/></g><g transform="translate(8 31) rotate(-20)"><g transform="translate(0 0) rotate(0) scale(0.95)"><path d="M0 -12q1.6 10 -.6 18q-.6 4 .4 7" fill="none" stroke="#1b1712" stroke-width="5.2" stroke-linecap="round"/><path d="M0 -12q1.6 10 -.6 18q-.6 4 .4 7" fill="none" stroke="#c07a3a" stroke-width="2.8" stroke-linecap="round"/><circle cx="0.2" cy="13.6" r="1.9" fill="#c07a3a" stroke="#1b1712" stroke-width="1.2"/><path d="M-2 -15H9Q12 -8 10 -1Q5 -6 1.6 -8H-2z" fill="#6a7280" stroke="#1b1712" stroke-width="2.1" stroke-linejoin="round" stroke-linecap="round"/><path d="M7.6 -14Q10 -8 8.4 -2.6" fill="none" stroke="#c8d0d8" stroke-width="1.3" stroke-linecap="round"/></g></g></svg></div><div class="ci" style="width:34px;height:34px;background:#a8743a"><svg width="26" height="26" viewBox="-4 -4 56 56"><g transform="translate(41 35) scale(0.95)"><path d="M-7 -8V8a7 2.6 0 0014 0V-8" fill="#a8743a" stroke="#1b1712" stroke-width="2.1" stroke-linejoin="round"/><path d="M-4 -4v10M2 -3v11M5 -5v8" fill="none" stroke="#7a4a2a" stroke-width="1.1" stroke-linecap="round"/><ellipse cx="0" cy="-8" rx="7" ry="2.6" fill="#e0b070" stroke="#1b1712" stroke-width="2.1"/><ellipse cx="0" cy="-8" rx="3.6" ry="1.3" fill="none" stroke="#a8743a" stroke-width="1"/></g><g transform="translate(2 0)"><g transform="translate(2.3999999999999986 6) scale(0.9)"><g transform="translate(0 0)"><path d="M8 14l-4-8 9 4zM40 14l4-8-9 4z" fill="#f4a6b4" stroke="#1b1712" stroke-width="1.4" stroke-linejoin="round" stroke-linecap="round"/><path d="M8 26c0-12 7-18 16-18s16 6 16 18-7 16-16 16S8 38 8 26z" fill="#f4a6b4" stroke="#1b1712" stroke-width="2.1" stroke-linejoin="round" stroke-linecap="round"/><ellipse cx="24" cy="31" rx="7" ry="5" fill="#d0788a" stroke="#1b1712" stroke-width="1.6"/><circle cx="21.5" cy="31" r="1.4" fill="#1b1712" stroke="#1b1712" stroke-width="0"/><circle cx="26.5" cy="31" r="1.4" fill="#1b1712" stroke="#1b1712" stroke-width="0"/><circle cx="17" cy="22" r="2" fill="#1b1712" stroke="#1b1712" stroke-width="0"/><circle cx="31" cy="22" r="2" fill="#1b1712" stroke="#1b1712" stroke-width="0"/><circle cx="16" cy="27" r="2" fill="#f08098" stroke="#1b1712" stroke-width="0"/><circle cx="32" cy="27" r="2" fill="#f08098" stroke="#1b1712" stroke-width="0"/></g></g><path d="M10 18q14-16 28 0v2H10z" fill="#c03a2a" stroke="#1b1712" stroke-width="2.1" stroke-linejoin="round" stroke-linecap="round"/><path d="M16 12v7M24 8v11M32 12v7M11 15h26" fill="none" stroke="#7a1a12" stroke-width="1.2" stroke-linecap="round"/></g><g transform="translate(8 31) rotate(-20)"><g transform="translate(0 0) rotate(0) scale(0.95)"><path d="M0 -12q1.6 10 -.6 18q-.6 4 .4 7" fill="none" stroke="#1b1712" stroke-width="5.2" stroke-linecap="round"/><path d="M0 -12q1.6 10 -.6 18q-.6 4 .4 7" fill="none" stroke="#c07a3a" stroke-width="2.8" stroke-linecap="round"/><circle cx="0.2" cy="13.6" r="1.9" fill="#c07a3a" stroke="#1b1712" stroke-width="1.2"/><path d="M-2 -15H9Q12 -8 10 -1Q5 -6 1.6 -8H-2z" fill="#6a7280" stroke="#1b1712" stroke-width="2.1" stroke-linejoin="round" stroke-linecap="round"/><path d="M7.6 -14Q10 -8 8.4 -2.6" fill="none" stroke="#c8d0d8" stroke-width="1.3" stroke-linecap="round"/></g></g></svg></div></div><b>Cerdito leñador · hacha y leño</b><small>Hacha a la izquierda y el leño detrás, a la derecha, a la altura del heno.</small></div></div>
